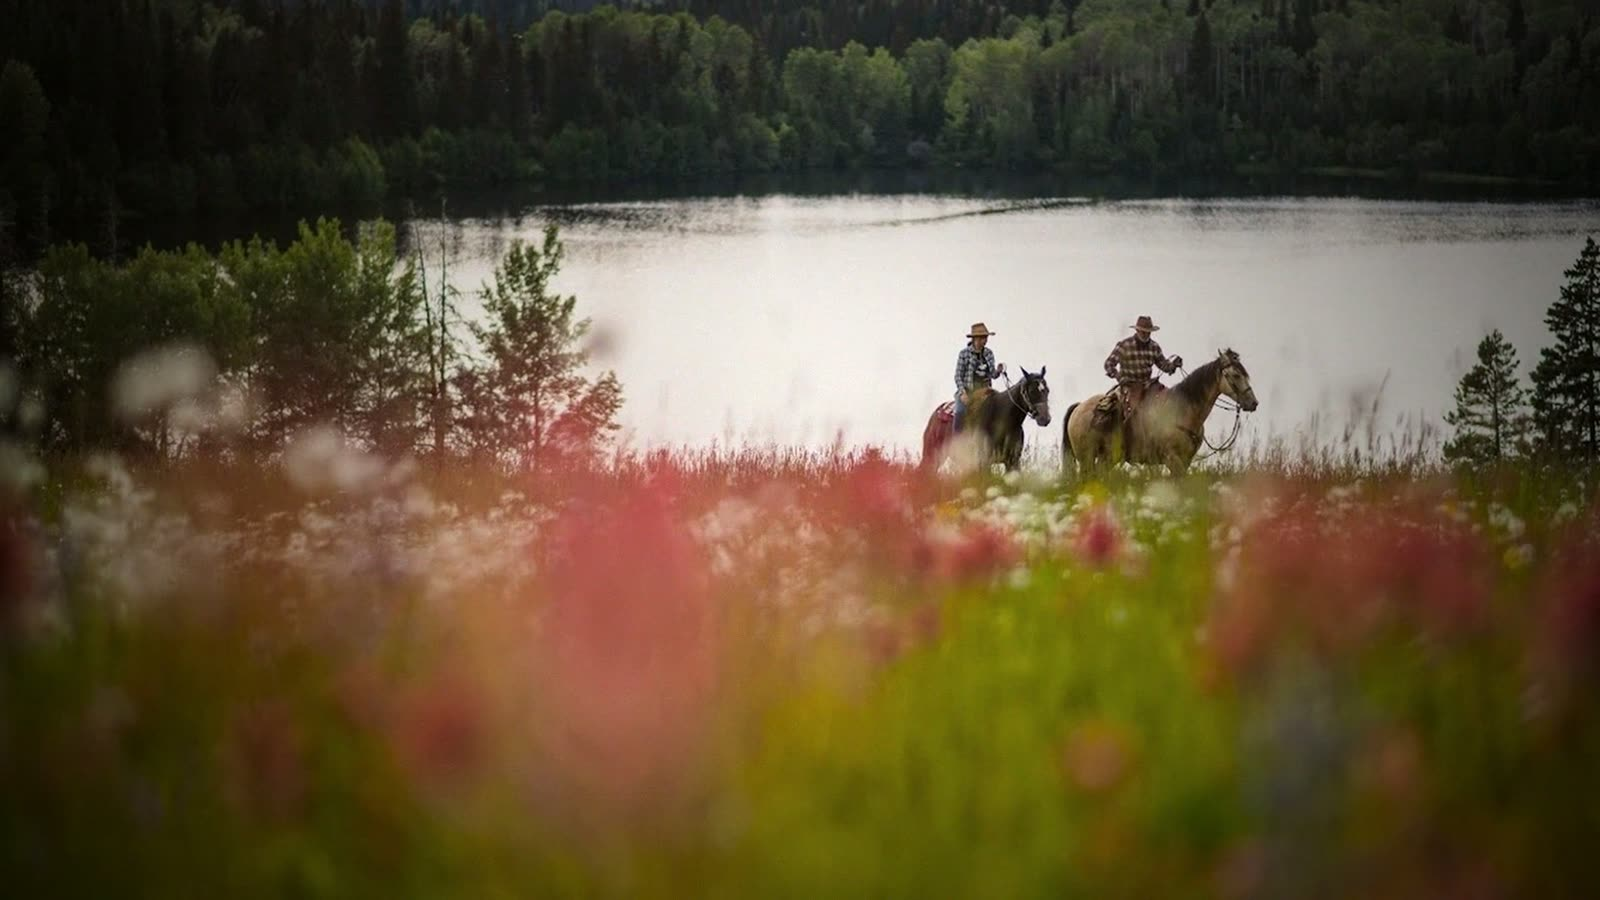
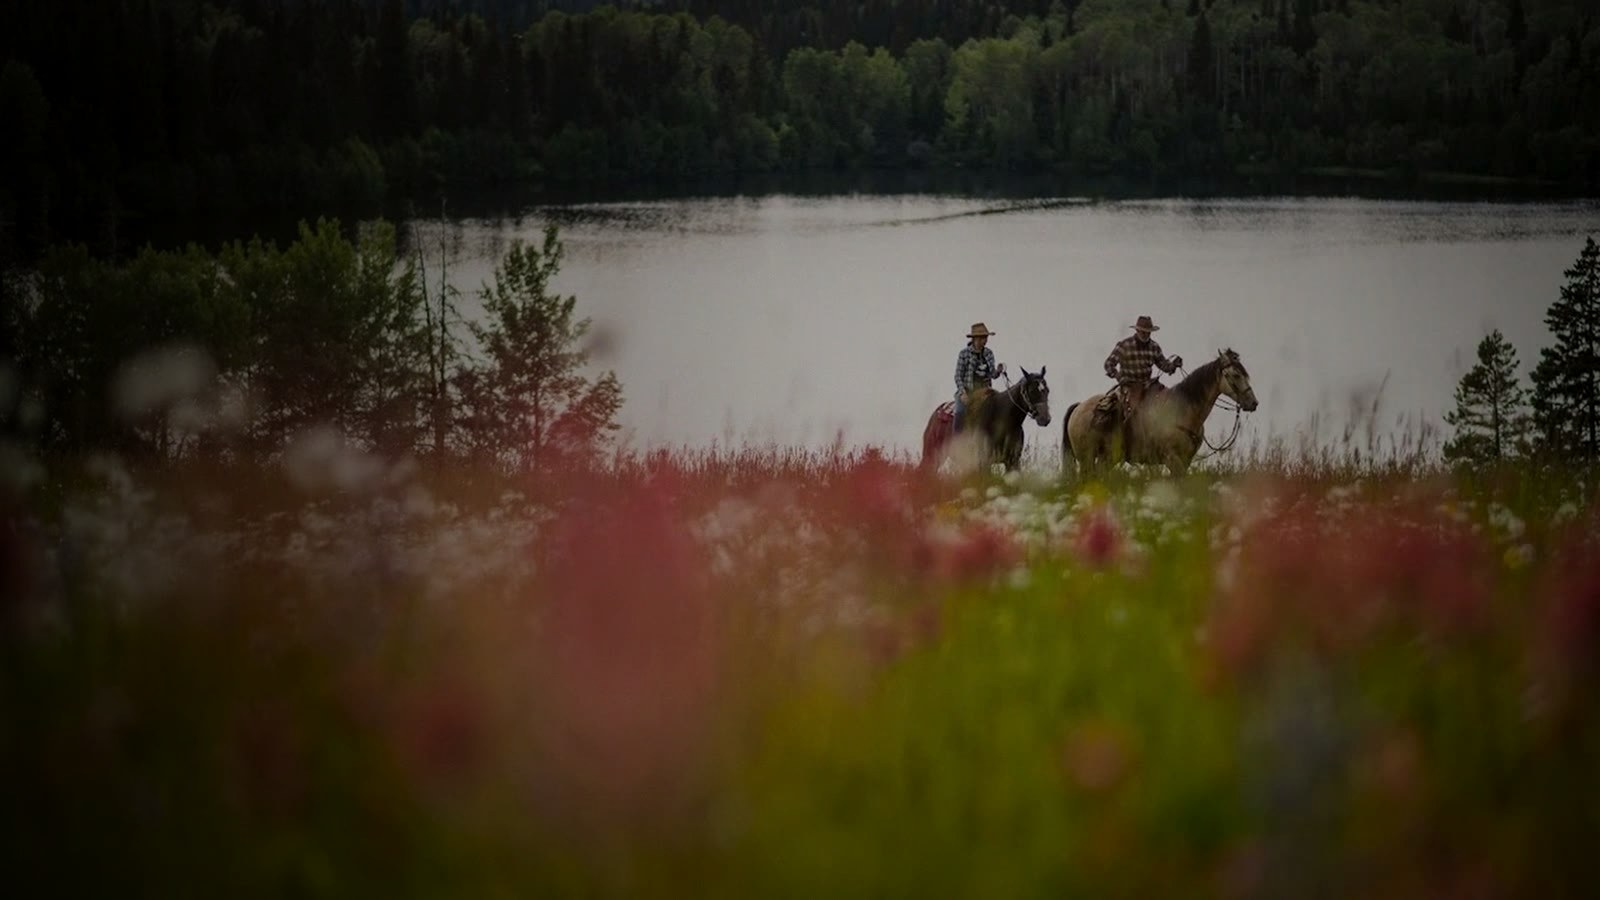
Sandbox Montana Hill: darker hero scrim so white copy stays readable

diff --git a/sandbox/montana-hill/index.html b/sandbox/montana-hill/index.html
@@ -39,22 +39,25 @@ a{color:inherit}
 .bar .call{font-size:14px;text-decoration:none;border:1px solid rgba(255,255,255,.55);border-radius:999px;padding:7px 14px;backdrop-filter:blur(4px);background:rgba(0,0,0,.12)}
 
 /* hero */
-.hero{position:relative;min-height:min(88vh,860px);min-height:min(88svh,860px);display:flex;align-items:flex-end;color:#fff;overflow:hidden;background:#1f261d url(poster.jpg) 68% 50%/cover no-repeat}
-.hero video{position:absolute;inset:0;width:100%;height:100%;object-fit:cover;object-position:68% 50%}
-.hero::after{content:"";position:absolute;inset:0;background:linear-gradient(180deg,rgba(20,24,18,.45) 0%,rgba(20,24,18,0) 28%,rgba(20,24,18,0) 45%,rgba(20,24,18,.72) 100%)}
-.hero .inner{position:relative;z-index:2;padding:0 20px 56px;width:100%}
-.eyebrow{font-size:12px;letter-spacing:.22em;text-transform:uppercase;opacity:.9}
-.hero h1{font:500 clamp(38px,8vw,76px)/1.02 var(--serif);letter-spacing:-.01em;margin:10px 0 10px;max-width:12ch}
-.hero p.lede{font-size:clamp(16px,2.2vw,19px);font-weight:300;max-width:34ch;opacity:.95}
+.hero{position:relative;min-height:min(88vh,860px);min-height:min(88svh,860px);display:flex;align-items:flex-end;color:#fff;overflow:hidden;background:#1f261d url(poster.jpg) 35% 45%/cover no-repeat}
+.hero video{position:absolute;inset:0;width:100%;height:100%;object-fit:cover;object-position:35% 45%;filter:brightness(.78) contrast(1.05) saturate(.95)}
+.hero::before{content:"";position:absolute;inset:0;z-index:1;background:
+  linear-gradient(90deg,rgba(12,16,10,.78) 0%,rgba(12,16,10,.55) 42%,rgba(12,16,10,.22) 70%,rgba(12,16,10,.08) 100%),
+  linear-gradient(180deg,rgba(12,16,10,.55) 0%,rgba(12,16,10,.15) 32%,rgba(12,16,10,.35) 58%,rgba(12,16,10,.88) 100%)}
+.hero::after{content:none}
+.hero .inner{position:relative;z-index:2;padding:0 20px 56px;width:100%;max-width:720px}
+.eyebrow{font-size:12px;letter-spacing:.22em;text-transform:uppercase;opacity:.95;text-shadow:0 1px 8px rgba(0,0,0,.55)}
+.hero h1{font:500 clamp(38px,8vw,76px)/1.02 var(--serif);letter-spacing:-.01em;margin:10px 0 10px;max-width:12ch;text-shadow:0 2px 18px rgba(0,0,0,.55),0 1px 2px rgba(0,0,0,.4)}
+.hero p.lede{font-size:clamp(16px,2.2vw,19px);font-weight:300;max-width:34ch;opacity:1;text-shadow:0 1px 10px rgba(0,0,0,.5)}
 .actions{display:flex;flex-wrap:wrap;gap:12px;margin-top:24px}
 .btn{display:inline-flex;align-items:center;gap:10px;font:500 16px var(--sans);text-decoration:none;border-radius:999px;padding:14px 24px;transition:transform .15s ease,background .2s ease}
 .btn:active{transform:scale(.98)}
-.btn-primary{background:var(--linen);color:var(--green)}
+.btn-primary{background:var(--linen);color:var(--green);box-shadow:0 8px 24px rgba(0,0,0,.28)}
 .btn-primary:hover{background:#fff}
-.btn-ghost{color:#fff;border:1px solid rgba(255,255,255,.6);background:rgba(0,0,0,.15);backdrop-filter:blur(4px)}
-.btn-ghost:hover{background:rgba(0,0,0,.3)}
+.btn-ghost{color:#fff;border:1px solid rgba(255,255,255,.75);background:rgba(0,0,0,.38);backdrop-filter:blur(6px)}
+.btn-ghost:hover{background:rgba(0,0,0,.5)}
 .btn-ghost svg{width:14px;height:14px}
-.offer{margin-top:18px;font-size:14px;opacity:.85}
+.offer{margin-top:18px;font-size:14px;opacity:.95;text-shadow:0 1px 8px rgba(0,0,0,.55)}
 .motion{position:absolute;right:16px;bottom:16px;z-index:3;width:38px;height:38px;border-radius:50%;border:1px solid rgba(255,255,255,.5);background:rgba(0,0,0,.25);color:#fff;display:grid;place-items:center;cursor:pointer}
 .motion svg{width:14px;height:14px}
 
